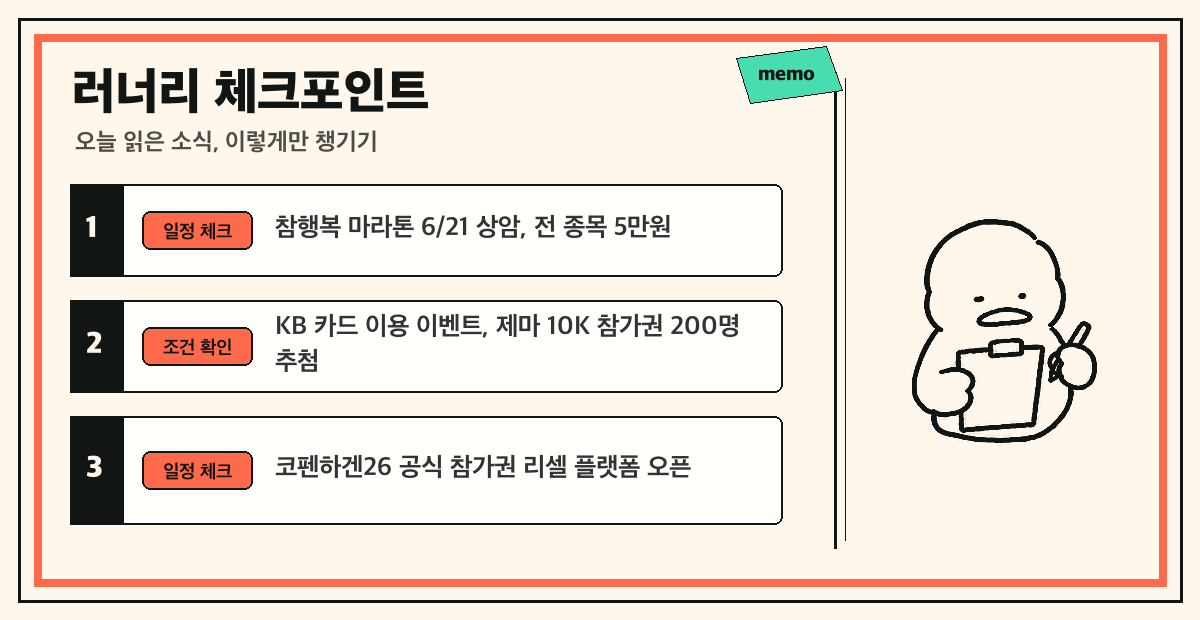
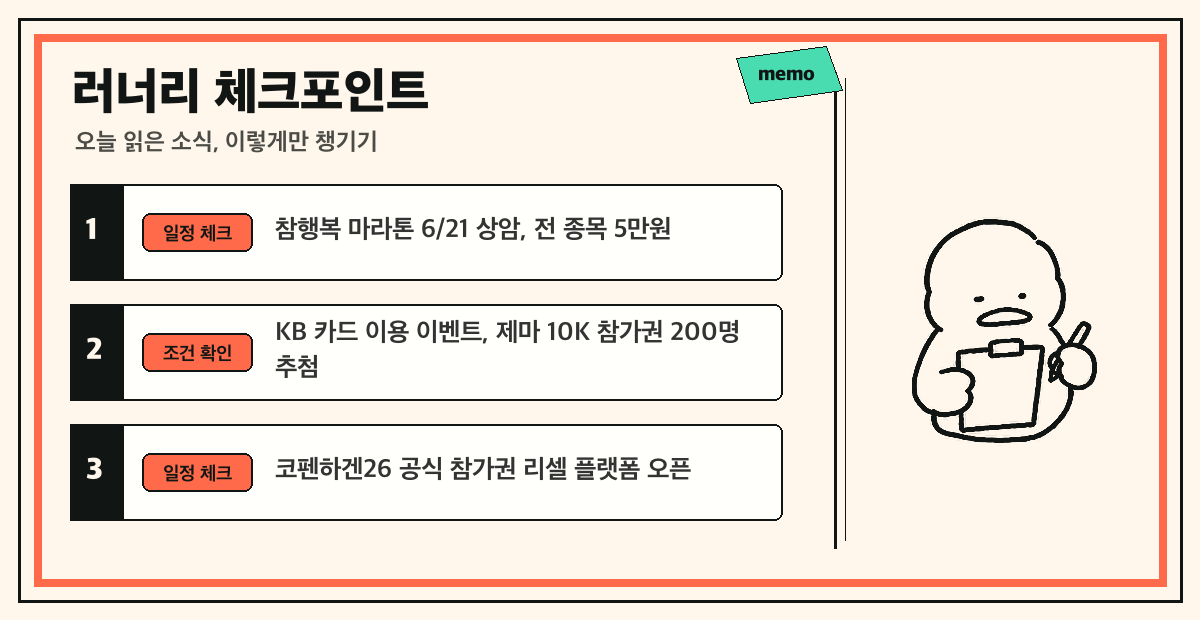
Prepare issue 07 and newsletter publishing flow

diff --git a/web/src/main.tsx b/web/src/main.tsx
@@ -49,6 +49,7 @@ function formatCategory(story: Story) {
     news: '뉴스',
     gear: '장비',
     elite: '엘리트',
+    training: '훈련',
   };
   const categoryLabel = categoryLabels[story.category] || story.category;
   return `${regionLabel} / ${categoryLabel}`;

diff --git a/scripts/generate_issue.py b/scripts/generate_issue.py
@@ -52,6 +52,19 @@ def topic_particle(text):
     return "는"
 
 
+def category_label(value):
+    labels = {
+        "event": "이벤트",
+        "race": "레이스",
+        "news": "뉴스",
+        "gear": "장비",
+        "elite": "엘리트",
+        "training": "훈련",
+    }
+    category = value.strip().lower()
+    return labels.get(category, value.strip())
+
+
 def format_newsletter_item(index, row):
     title = row["title"].strip()
     summary = row["summary"].strip()
@@ -59,7 +72,7 @@ def format_newsletter_item(index, row):
     url = row["url"].strip()
     source = row["source"].strip()
     region = "국내" if row["region"].strip().lower() == "korea" else "해외"
-    category = row["category"].strip()
+    category = category_label(row["category"])
     one_liner = row["one_liner"].strip()
 
     return (
@@ -81,6 +94,8 @@ def build_editorial_meta(rows, number, korea_count, global_count):
     main_title = main["title"].split("…", 1)[0]
     main_subject = f"{main_title}{topic_particle(main_title)}"
     main_category = main["category"].strip().lower()
+    titles = " ".join(row["title"] for row in rows)
+    categories = {row["category"].strip().lower() for row in rows}
 
     email_intro = (
         f"안녕하세요, 러너리입니다. {number}호는 국내 {korea_count}개, 해외 {global_count}개로 구성했습니다. "
@@ -122,10 +137,37 @@ def build_editorial_meta(rows, number, korea_count, global_count):
             f"{main['summary'].strip()} {main['why_it_matters'].strip()}"
         )
         mid_run_note = "해외 소식은 기록 자체보다 국내 러너의 훈련, 장비, 참가 선택에 어떤 영향을 주는지까지 같이 보면 더 유용합니다."
-    perspective = (
-        "이번 호는 ‘지금 내가 무엇을 결정할 수 있나’를 기준으로 읽으면 좋습니다. 참가형 소식은 일정과 조건을 확인하고, "
-        "흐름형 소식은 내 훈련·장비·대회 선택에 어떤 영향을 줄지 보는 식입니다."
-    )
+    if "63RUN" in titles or "월드런" in titles:
+        mid_run_note = (
+            "계단 오르기, 캐처카 방식, 여행형 레이스처럼 운영 방식이 제각각입니다. 거리보다 출발 방식과 현장 동선을 먼저 확인하세요."
+        )
+        perspective = (
+            "이번 호는 러닝 이벤트가 얼마나 다양한 형태로 넓어지는지를 보여줍니다. 기록형 로드 레이스만 보지 말고, "
+            "내가 원하는 자극이 체험, 기부, 여행, 기록 중 어디에 가까운지 기준을 세워보세요."
+        )
+    elif "KB 마라톤 카드" in titles or "Gel-Kayano" in titles:
+        mid_run_note = (
+            "참가권 이벤트와 장비 소식은 조건을 잘게 읽어야 합니다. 응모 조건, 당첨 안내일, 출시일, 가격처럼 "
+            "실제로 행동을 바꾸는 숫자만 따로 적어두세요."
+        )
+        perspective = (
+            "이번 호는 달릴 대회를 고르는 문제와 러닝 주변의 선택지를 함께 다룹니다. 접수권을 얻는 방법, 공식 양도 채널, "
+            "안정화 러닝화 흐름처럼 레이스 밖의 결정도 러너의 시즌 계획에 영향을 줍니다."
+        )
+    elif "training" in categories:
+        mid_run_note = (
+            "접수 일정과 몸 관리가 같이 걸려 있습니다. 대회 캘린더를 채울 때 장거리주, 회복식, "
+            "컨디션 저하 신호를 같은 주간 계획 안에 넣어두세요."
+        )
+        perspective = (
+            "이번 호는 ‘어디에 신청할까’에서 한 걸음 더 나아가 ‘무사히 준비할 수 있을까’를 같이 묻습니다. "
+            "국내 대회 후보는 일정표에 올리고, 해외 소식은 안전한 양도와 충분한 에너지 섭취라는 운영 원칙으로 읽으면 좋습니다."
+        )
+    else:
+        perspective = (
+            "이번 호는 ‘지금 내가 무엇을 결정할 수 있나’를 기준으로 읽으면 좋습니다. 참가형 소식은 일정과 조건을 확인하고, "
+            "흐름형 소식은 내 훈련·장비·대회 선택에 어떤 영향을 줄지 보는 식입니다."
+        )
     return {
         "email_intro": email_intro,
         "issue_focus": issue_focus,

diff --git a/scripts/generate_web_data.py b/scripts/generate_web_data.py
@@ -1,7 +1,10 @@
 #!/usr/bin/env python3
 import json
+import os
 import re
+from datetime import datetime
 from pathlib import Path
+from zoneinfo import ZoneInfo
 
 
 ROOT = Path(__file__).resolve().parents[1]
@@ -9,6 +12,7 @@ ISSUES_DIR = ROOT / "issues"
 WEB_DIR = ROOT / "web"
 WEB_DATA = WEB_DIR / "src" / "data" / "issues.json"
 WEB_ASSETS = WEB_DIR / "public" / "assets" / "issues"
+KST = ZoneInfo("Asia/Seoul")
 
 
 def issue_number_from_title(title):
@@ -110,9 +114,16 @@ def issue_assets(issue_date):
     }
 
 
-def build_web_data():
+def build_web_data(include_future=None):
     issue_files = sorted(ISSUES_DIR.glob("*-running-newsletter.md"), reverse=True)
-    issues = [parse_newsletter(path) for path in issue_files]
+    if include_future is None:
+        include_future = os.environ.get("RUNEORRRI_INCLUDE_FUTURE_ISSUES") == "1"
+    today = datetime.now(KST).date().isoformat()
+    issues = [
+        parse_newsletter(path)
+        for path in issue_files
+        if include_future or path.name.split("-running-newsletter.md", 1)[0] <= today
+    ]
     WEB_DATA.parent.mkdir(parents=True, exist_ok=True)
     WEB_DATA.write_text(
         json.dumps(issues, ensure_ascii=False, indent=2) + "\n",

diff --git a/scripts/generate_newsletter_art.py b/scripts/generate_newsletter_art.py
@@ -72,7 +72,7 @@ def issue_id_date(issue_id):
 
 def story_sort_key(row):
     region_order = {"korea": 0, "global": 1}
-    category_order = {"event": 0, "gear": 1, "elite": 2, "news": 3}
+    category_order = {"event": 0, "gear": 1, "elite": 2, "news": 3, "training": 4}
     return (
         region_order.get(row.get("region", "").strip().lower(), 9),
         category_order.get(row.get("category", "").strip().lower(), 9),
@@ -174,6 +174,7 @@ def category_label(row):
         "gear": "장비 판단",
         "news": "조건 확인",
         "elite": "기록 맥락",
+        "training": "훈련 체크",
     }
     return labels.get(row.get("category", "").strip().lower(), "오늘 할 일")
 
@@ -218,10 +219,11 @@ def action(rows, out_dir):
     draw.text((758, 63), "memo", font=font(20), fill="#111514")
 
     bullets = checkpoint_items(rows)
-    y = 184
+    row_height = 96
+    gap = 24
+    start_y = 184
     for idx, (label, body) in enumerate(bullets, start=1):
-        row_height = 108 if idx == 3 else 92
-        top = y + sum(108 if i == 3 else 92 for i in range(1, idx)) + (idx - 1) * 24
+        top = start_y + (idx - 1) * (row_height + gap)
         bottom = top + row_height
         draw.rounded_rectangle((70, top, 782, bottom), radius=8, fill="#fffffb", outline="#111514", width=2)
         draw.rectangle((70, top, 123, bottom), fill="#111514")

diff --git a/scripts/send_issue_email.py b/scripts/send_issue_email.py
@@ -90,6 +90,7 @@ def category_label(row):
         "news": "뉴스",
         "gear": "장비",
         "elite": "엘리트",
+        "training": "훈련",
     }
     return labels.get(row.get("category", "").strip().lower(), row.get("category", "소식"))
 
@@ -332,7 +333,9 @@ def get_subscriber_recipients():
 
     if account_id and db_id and token:
         url = f"https://api.cloudflare.com/client/v4/accounts/{account_id}/d1/database/{db_id}/query"
-        payload = json.dumps({"sql": "SELECT email FROM subscribers WHERE status = 'active'"}).encode()
+        payload = json.dumps({
+            "sql": "SELECT email FROM subscribers WHERE status = 'active' ORDER BY subscribed_at ASC"
+        }).encode()
         req = urllib.request.Request(url, data=payload, headers={
             "Authorization": f"Bearer {token}",
             "Content-Type": "application/json",
@@ -365,7 +368,7 @@ def get_subscriber_recipients():
                 except urllib.error.HTTPError as error:
                     raise SystemExit(f"Wrangler OAuth recipient lookup failed ({error.code}).")
 
-    raise SystemExit("No subscriber recipients found. Check CLOUDFLARE_D1_DATABASE_ID and Cloudflare auth.")
+    raise SystemExit("No subscriber recipients found. Check Cloudflare D1 settings and auth.")
 
 
 def main():
@@ -401,7 +404,7 @@ def main():
     if not recipients:
         raise SystemExit("No recipients found.")
 
-    issues = build_web_data()
+    issues = build_web_data(include_future=True)
     current_issue_data = next((i for i in issues if i["date"] == TODAY), {})
     issue_url = runeorrri_issue_url(site_base_url)
 

diff --git a/issues/2026-05-09-running-newsletter.md b/issues/2026-05-09-running-newsletter.md
@@ -1,0 +1,51 @@
+# 오늘의 러닝 브리핑 07 - 2026-05-09
+
+발행일: 2026-05-09
+구성: 국내 3개 / 해외 2개
+이메일 인트로: 안녕하세요, 러너리입니다. 07호는 국내 3개, 해외 2개로 구성했습니다. 웰메이드런 6월 20일 남양주 개최부터 골드코스트마라톤 참가권 양도, 5월 24일 마감까지, 지금 접수·일정표에 올려둘 만한 소식과 러닝 판이 어디로 움직이는지 보여주는 변화를 함께 담았습니다.
+이번 호 중심: 이번 호의 중심은 국내 러너가 바로 확인할 수 있는 선택지와 해외 러닝 흐름을 함께 보는 일입니다. 웰메이드런 6월 20일 남양주 개최·일광문오성 바다 마라톤 6월 13일 부산 기장서 첫 개최·무등산권 지오마라톤 5월 18일 접수 시작처럼 참가 여부를 판단할 수 있는 소식과 골드코스트마라톤 참가권 양도, 5월 24일 마감 같은 흐름형 소식을 함께 묶었습니다.
+메인 에디토리얼: 웰메이드런 6월 20일 남양주 개최는 일정 정보만 보고 넘기기보다 대회 성격을 같이 봐야 합니다. 2026 웰메이드런은 6월 20일 남양주한강공원 삼패지구에서 열립니다. 공식 홈페이지 기준 하프, 10km, 5km, 하프 단체전, 10km 커플런으로 운영되며 모든 종목에 기록칩을 사용합니다. 공지에는 5월 31일 자정까지 취소, 추가, 종목 변경이 가능하다고 안내돼 있습니다. 한강변 코스와 커플런·단체전 구성이 있어 혼자 기록을 노리는 러너뿐 아니라 크루 참가에도 맞습니다. 5월 말까지 변경 가능 기간이 남아 있어 일정 조정 여지가 있는 대회입니다. 참가 여부를 정할 때는 접수 마감, 출발 시간, 이동 동선, 환불 조건을 먼저 확인하세요.
+미드런 노트: 접수 일정과 몸 관리가 같이 걸려 있습니다. 대회 캘린더를 채울 때 장거리주, 회복식, 컨디션 저하 신호를 같은 주간 계획 안에 넣어두세요.
+이번 호 관점: 이번 호는 ‘어디에 신청할까’에서 한 걸음 더 나아가 ‘무사히 준비할 수 있을까’를 같이 묻습니다. 국내 대회 후보는 일정표에 올리고, 해외 소식은 안전한 양도와 충분한 에너지 섭취라는 운영 원칙으로 읽으면 좋습니다.
+
+안녕하세요, 러너리입니다. 07호는 국내 3개, 해외 2개로 구성했습니다. 웰메이드런 6월 20일 남양주 개최부터 골드코스트마라톤 참가권 양도, 5월 24일 마감까지, 지금 접수·일정표에 올려둘 만한 소식과 러닝 판이 어디로 움직이는지 보여주는 변화를 함께 담았습니다.
+
+## 1. 웰메이드런 6월 20일 남양주 개최…5월 31일까지 변경·취소 가능
+
+- 구분: 국내 / 이벤트
+- 요약: 2026 웰메이드런은 6월 20일 남양주한강공원 삼패지구에서 열립니다. 공식 홈페이지 기준 하프, 10km, 5km, 하프 단체전, 10km 커플런으로 운영되며 모든 종목에 기록칩을 사용합니다. 공지에는 5월 31일 자정까지 취소, 추가, 종목 변경이 가능하다고 안내돼 있습니다.
+- 러너에게 중요한 이유: 한강변 코스와 커플런·단체전 구성이 있어 혼자 기록을 노리는 러너뿐 아니라 크루 참가에도 맞습니다. 5월 말까지 변경 가능 기간이 남아 있어 일정 조정 여지가 있는 대회입니다.
+- 원문: [웰메이드런 공식](https://wellmaderun.com/)
+- 한 줄 관점: 웰메이드런 6/20 남양주, 변경·취소 5/31까지.
+
+## 2. 일광문오성 바다 마라톤 6월 13일 부산 기장서 첫 개최
+
+- 구분: 국내 / 이벤트
+- 요약: 2026 제1회 일광문오성 바다 마라톤은 6월 13일 부산 기장 신평물양장에서 열립니다. 공개 일정 기준 5km와 10km 두 종목으로 운영되며 접수는 5월 20일까지입니다. 전 종목 참가비는 5만원입니다.
+- 러너에게 중요한 이유: 부산권 바다 코스의 첫 회 대회라 지역 러너에게 새 선택지가 됩니다. 5km와 10km만 운영돼 장거리 부담 없이 여름 초입 레이스를 잡기 좋습니다.
+- 원문: [김러닝](https://kimrunning.com/marathon/254)
+- 한 줄 관점: 부산 기장 바다 마라톤, 접수 5/20까지.
+
+## 3. 무등산권 지오마라톤 5월 18일 접수 시작…30K까지 운영
+
+- 구분: 국내 / 이벤트
+- 요약: 2026 제5회 무등산권 지오마라톤은 10월 10일 금호화순스파리조트를 집결지로 열립니다. 공식 대회요강 기준 접수는 5월 18일부터 6월 18일까지이고, 30km, 하프, 10km, 5.18km, 2km 걷기 종목이 마련됩니다.
+- 러너에게 중요한 이유: 가을 목표 대회를 미리 정하려는 러너에게 30km와 하프 선택지가 있습니다. 산악 트레일은 아니지만 무등산권 코스라 이동, 고도, 제한시간을 함께 확인해야 합니다.
+- 원문: [무등산권 지오마라톤 공식](https://georun.kr/ko/2)
+- 한 줄 관점: 무등산권 지오마라톤, 5/18 접수 시작.
+
+## 4. 골드코스트마라톤 참가권 양도, 5월 24일 마감…솔드아웃 거리 주의
+
+- 구분: 해외 / 이벤트
+- 요약: ASICS Gold Coast Marathon 공식 안내에 따르면 2026년 참가권 양도는 3월 24일부터 5월 24일까지 공식 절차로만 가능합니다. 공식 엔트리 페이지는 7월 4~5일 대회와 마라톤·하프 솔드아웃 상태, 5km와 일부 거리 참가 가능 정보를 안내합니다.
+- 러너에게 중요한 이유: 해외 대회가 매진된 뒤 비공식 양도 사기가 늘 수 있어 공식 양도 절차 확인이 중요합니다. 원정 레이스를 준비하는 러너에게 실제로 바로 쓸모 있는 안전 정보입니다.
+- 원문: [ASICS Gold Coast Marathon 공식](https://goldcoastmarathon.com.au/refund-and-transfer-information/)
+- 한 줄 관점: 골드코스트 참가권 양도, 공식 절차 5/24까지.
+
+## 5. 러너 언더퓨얼링 연구 주목…마라톤 의료지원 위험 2배
+
+- 구분: 해외 / 훈련
+- 요약: Runner's World는 5월 7일 Boston Marathon 참가자 1,000명 이상을 다룬 연구를 소개하며 저에너지 가용성, 즉 운동량에 비해 섭취 에너지가 부족한 상태의 위험을 짚었습니다. 기사에 따르면 언더퓨얼링 상태로 레이스한 참가자는 의료 지원을 받을 위험이 2배, 주요 의료 처치 위험이 2.8배 높았습니다.
+- 러너에게 중요한 이유: 체중 감량과 기록 향상을 동시에 노리는 러너가 놓치기 쉬운 안전 이슈입니다. 긴 훈련주와 대회 전에는 가벼움보다 충분한 탄수화물과 회복 식사가 기록과 안전에 더 중요합니다.
+- 원문: [Runner's World](https://www.runnersworld.com/health-injuries/a71241794/how-to-spot-under-fueling-signs-on-runs/)
+- 한 줄 관점: 언더퓨얼링, 마라톤 의료지원 위험 2배 신호.

diff --git a/README.md b/README.md
@@ -152,7 +152,9 @@ python3 scripts/run_newsletter_pipeline.py --issue-id current --no-email
 
 ## 자동 발송 설정
 
-GitHub Actions 워크플로 `.github/workflows/send-newsletter.yml`이 화/목/토 오전 8시(KST)에 실행됩니다. 자동 수집과 AI 보강은 실행하지 않고, 미리 준비된 현재 회차 원고·이미지·웹 데이터로 메일 발송만 진행합니다.
+GitHub Actions 워크플로 `.github/workflows/send-newsletter.yml`이 화/목/토 오전 8시(KST)에 실행됩니다. 자동 수집과 AI 보강은 실행하지 않고, 미리 준비된 현재 회차 원고·이미지·웹 데이터를 빌드·배포한 뒤 최신 회차 URL을 검증하고 구독자에게 메일을 발송합니다.
+
+검수용 메일은 수동으로 `--recipients test`를 사용합니다. 구독자 전체 발송은 워크플로 또는 수동 `--recipients subscribers`로만 진행합니다.
 
 Cloudflare Pages 배포 설정은 저장소 루트 기준으로 봅니다.
 
@@ -160,7 +162,7 @@ Cloudflare Pages 배포 설정은 저장소 루트 기준으로 봅니다.
 - 빌드 출력: `web/dist`
 - Pages Functions 위치: `functions/`
 
-검수용 이메일 발송은 `.env.example`을 참고해 `.env` 파일에 SMTP 설정과 `MAIL_TO`를 넣습니다. 구독자 전체 발송은 Cloudflare D1 설정까지 필요합니다.
+검수용 이메일 발송은 `.env.example`을 참고해 `.env` 파일에 SMTP 설정과 `MAIL_TO`를 넣습니다. 구독자 전체 발송은 Cloudflare D1 설정과 `CLOUDFLARE_API_TOKEN` 또는 로컬 Wrangler 로그인이 필요합니다.
 
 ## 발행 전 필수 체크
 

diff --git a/issues/2026-05-05-running-newsletter.md b/issues/2026-05-05-running-newsletter.md
@@ -5,8 +5,8 @@
 이메일 인트로: 안녕하세요, 러너리입니다. 05호는 국내 4개, 해외 1개로 구성했습니다. 한화생명 시그니처 63RUN, 5월 6일 티켓 예매 시작부터 프라하마라톤, Berehanu 2:05:51 우승까지, 지금 접수·일정표에 올려둘 만한 소식과 러닝 판이 어디로 움직이는지 보여주는 변화를 함께 담았습니다.
 이번 호 중심: 이번 호의 중심은 국내 러너가 바로 확인할 수 있는 선택지와 해외 러닝 흐름을 함께 보는 일입니다. 한화생명 시그니처 63RUN, 5월 6일 티켓 예매 시작·커피 빵빵런, 5월 9~10일 강릉 개최·윙스 포 라이프 월드런 부천, 5월 10일 밤 8시 동시 출발처럼 참가 여부를 판단할 수 있는 소식과 프라하마라톤, Berehanu 2:05:51 우승 같은 흐름형 소식을 함께 묶었습니다.
 메인 에디토리얼: 한화생명 시그니처 63RUN, 5월 6일 티켓 예매 시작는 일정 정보만 보고 넘기기보다 대회 성격을 같이 봐야 합니다. 한화생명은 5월 23일 여의도 63빌딩에서 시그니처 63RUN을 연다고 안내했습니다. 5월 6일부터 티켓 예매가 시작되며, 시그니처 1회 오르기와 챌린지 6회 오르기 2개 부문으로 총 500명을 모집합니다. 일반 로드 레이스와 다른 수직 마라톤이라 짧은 시간에 강한 운동 자극을 원하는 러너에게 맞습니다. 예매 기간이 짧고 모집 인원도 적어 관심 있다면 5월 6일 알림을 걸어둘 필요가 있습니다. 참가 여부를 정할 때는 접수 마감, 출발 시간, 이동 동선, 환불 조건을 먼저 확인하세요.
-미드런 노트: 대회 소식은 코스보다 마감일이 먼저입니다. 관심 있는 대회는 접수 마감일, 환불 가능일, 출발 시간을 캘린더에 넣어두세요.
-이번 호 관점: 이번 호는 ‘지금 내가 무엇을 결정할 수 있나’를 기준으로 읽으면 좋습니다. 참가형 소식은 일정과 조건을 확인하고, 흐름형 소식은 내 훈련·장비·대회 선택에 어떤 영향을 줄지 보는 식입니다.
+미드런 노트: 계단 오르기, 캐처카 방식, 여행형 레이스처럼 운영 방식이 제각각입니다. 거리보다 출발 방식과 현장 동선을 먼저 확인하세요.
+이번 호 관점: 이번 호는 러닝 이벤트가 얼마나 다양한 형태로 넓어지는지를 보여줍니다. 기록형 로드 레이스만 보지 말고, 내가 원하는 자극이 체험, 기부, 여행, 기록 중 어디에 가까운지 기준을 세워보세요.
 
 안녕하세요, 러너리입니다. 05호는 국내 4개, 해외 1개로 구성했습니다. 한화생명 시그니처 63RUN, 5월 6일 티켓 예매 시작부터 프라하마라톤, Berehanu 2:05:51 우승까지, 지금 접수·일정표에 올려둘 만한 소식과 러닝 판이 어디로 움직이는지 보여주는 변화를 함께 담았습니다.
 
@@ -49,4 +49,3 @@
 - 러너에게 중요한 이유: 런던 이후 이어진 유럽 봄 마라톤의 엘리트 흐름을 볼 수 있는 결과입니다. 코스 기록에 근접한 남자 우승 기록은 빠른 도심 코스와 페이스 운영을 비교하는 데 참고가 됩니다.
 - 원문: [Prague Daily News](https://www.praguedaily.news/2026/05/03/vodafone-prague-marathon-2026-ethiopian-berehanu-wins-in-2-05-51-havlena-again-czech-champion/)
 - 한 줄 관점: 프라하마라톤 남자 2:05:51, 여자 2:24:19.
-

diff --git a/issues/2026-05-07-running-newsletter.md b/issues/2026-05-07-running-newsletter.md
@@ -5,8 +5,8 @@
 이메일 인트로: 안녕하세요, 러너리입니다. 06호는 국내 3개, 해외 2개로 구성했습니다. 참행복 마라톤, 6월 21일 상암서 하프·10K·5K 운영부터 코펜하겐26 세계로드러닝선수권, 참가권 리셀 플랫폼 오픈까지, 지금 접수·일정표에 올려둘 만한 소식과 러닝 판이 어디로 움직이는지 보여주는 변화를 함께 담았습니다.
 이번 호 중심: 이번 호의 중심은 국내 러너가 바로 확인할 수 있는 선택지와 해외 러닝 흐름을 함께 보는 일입니다. 참행복 마라톤, 6월 21일 상암서 하프·10K·5K 운영·안양천 장미꽃 축제 마라톤, 5월 14일 접수 마감·KB 마라톤 카드, JTBC 서울마라톤 10K 참가권 200명 추첨처럼 참가 여부를 판단할 수 있는 소식과 코펜하겐26 세계로드러닝선수권, 참가권 리셀 플랫폼 오픈 같은 흐름형 소식을 함께 묶었습니다.
 메인 에디토리얼: 참행복 마라톤, 6월 21일 상암서 하프·10K·5K 운영은 일정 정보만 보고 넘기기보다 대회 성격을 같이 봐야 합니다. KorMarathon 기준 2026 참행복 마라톤은 6월 21일 서울 상암월드컵공원 평화광장에서 열립니다. 하프, 10km, 5km 전 종목 참가비는 5만원으로 안내돼 있고, 접수 마감일은 6월 14일입니다. 서울권에서 하프까지 운영되는 6월 대회를 찾는 러너에게 선택지가 됩니다. 전 종목 기록 측정 안내가 있어 기록 확인 목적의 참가에도 맞습니다. 참가 여부를 정할 때는 접수 마감, 출발 시간, 이동 동선, 환불 조건을 먼저 확인하세요.
-미드런 노트: 대회 소식은 코스보다 마감일이 먼저입니다. 관심 있는 대회는 접수 마감일, 환불 가능일, 출발 시간을 캘린더에 넣어두세요.
-이번 호 관점: 이번 호는 ‘지금 내가 무엇을 결정할 수 있나’를 기준으로 읽으면 좋습니다. 참가형 소식은 일정과 조건을 확인하고, 흐름형 소식은 내 훈련·장비·대회 선택에 어떤 영향을 줄지 보는 식입니다.
+미드런 노트: 참가권 이벤트와 장비 소식은 조건을 잘게 읽어야 합니다. 응모 조건, 당첨 안내일, 출시일, 가격처럼 실제로 행동을 바꾸는 숫자만 따로 적어두세요.
+이번 호 관점: 이번 호는 달릴 대회를 고르는 문제와 러닝 주변의 선택지를 함께 다룹니다. 접수권을 얻는 방법, 공식 양도 채널, 안정화 러닝화 흐름처럼 레이스 밖의 결정도 러너의 시즌 계획에 영향을 줍니다.
 
 안녕하세요, 러너리입니다. 06호는 국내 3개, 해외 2개로 구성했습니다. 참행복 마라톤, 6월 21일 상암서 하프·10K·5K 운영부터 코펜하겐26 세계로드러닝선수권, 참가권 리셀 플랫폼 오픈까지, 지금 접수·일정표에 올려둘 만한 소식과 러닝 판이 어디로 움직이는지 보여주는 변화를 함께 담았습니다.
 
@@ -49,4 +49,3 @@
 - 러너에게 중요한 이유: 안정화 러닝화가 딱딱한 지지 구조보다 부드러운 가이드 방식으로 이동하는 흐름입니다. 과내전 보정화나 장거리 훈련화를 찾는 러너가 비교 기준으로 삼을 만합니다.
 - 원문: [T3](https://www.t3.com/active/running/asics-changes-gel-kayano-33-launch-0526)
 - 한 줄 관점: 카야노 33, 6/1 출시와 새 FLUIDSUPPORT 적용.
-